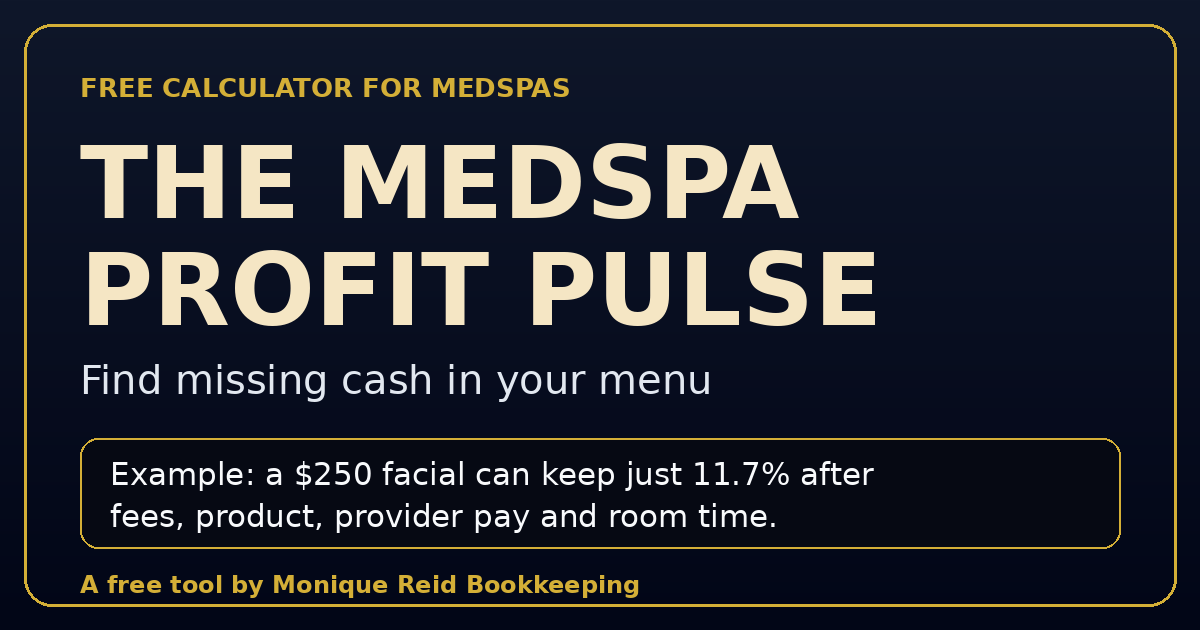
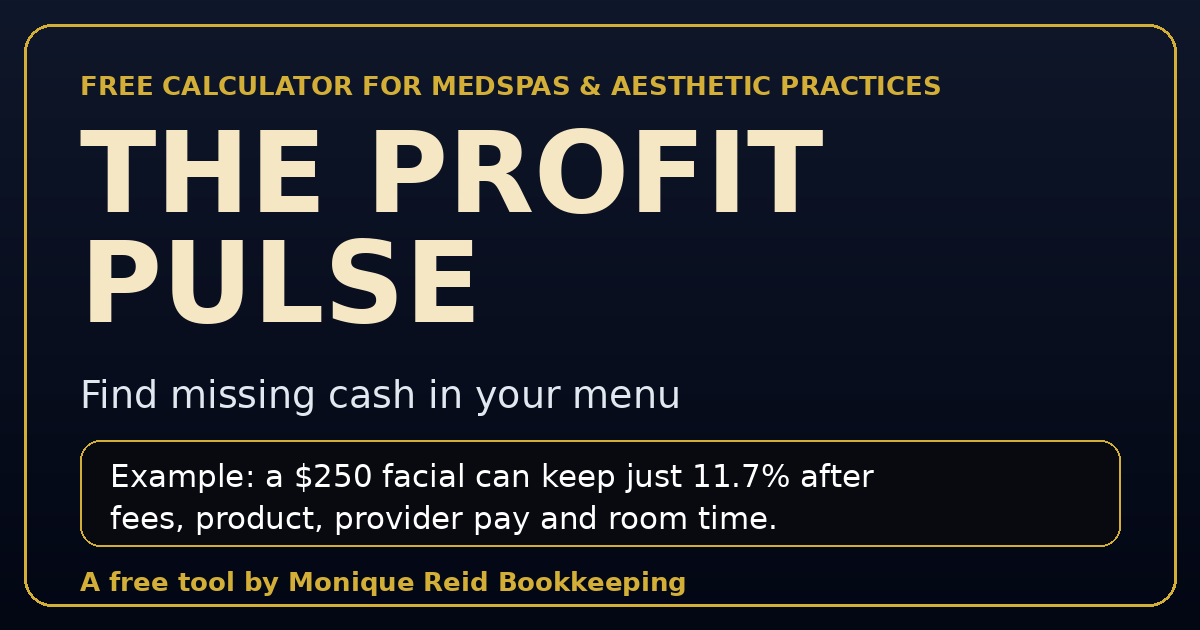
Crisper print, Unlock My Full Report wording, email typo help, clean main-site link, clearer feedback question, The Profit Pulse name, longer save timeout
Claude-Session: https://claude.ai/code/session_01DRTBERRYbtjQAsqXJZxU74

diff --git a/src/App.tsx b/src/App.tsx
@@ -9,12 +9,13 @@ import NumField from './NumField';
 import Turnstile from './Turnstile';
 import { track } from './analytics';
 import { buildReportPayload, newReportId } from './reportPayload';
+import { emailProblem, suggestEmail } from './emailCheck';
 
 const STORAGE_KEY = "medspa_profit_pulse_state";
 const LEAD_CAPTURED_KEY = "medspa_profit_pulse_lead_captured";
 
 // ---- Easy-to-edit business settings -------------------------------------------------------
-const SITE_URL = 'https://www.moniquereidbookkeeping.com/';
+const SITE_URL = 'https://moniquereidbookkeeping.com/';
 /** Swap this for a calendar booking link (Calendly, Google Calendar, etc.) when you have one. */
 const BOOKING_URL = SITE_URL;
 /** Optional: link to your privacy policy. Leave empty to hide the link. */
@@ -34,19 +35,6 @@ const CATEGORIES = ['injectables', 'lasers', 'facials'] as const;
 /** Keep a saved/stale value inside the range the calculator and server accept. */
 const clampNum = (v: unknown, min: number, max: number, fallback: number) =>
   typeof v === 'number' && Number.isFinite(v) ? Math.min(max, Math.max(min, v)) : fallback;
-
-const withUtm = (url: string, content: string) => {
-  try {
-    const u = new URL(url);
-    u.searchParams.set('utm_source', 'profit-pulse');
-    u.searchParams.set('utm_medium', 'calculator');
-    u.searchParams.set('utm_campaign', 'medspa-profit-pulse');
-    u.searchParams.set('utm_content', content);
-    return u.toString();
-  } catch {
-    return url;
-  }
-};
 
 type SaveStatus = 'idle' | 'saving' | 'ok' | 'error';
 
@@ -71,6 +59,10 @@ export default function App() {
   const [practiceName, setPracticeName] = useState("");
   const [email, setEmail] = useState("");
   const [phone, setPhone] = useState<string>("");
+  // Plain-language help under the email box: a problem to fix, or a "did you mean" suggestion.
+  const [emailNote, setEmailNote] = useState<{ kind: 'error' | 'suggest'; text: string; fix?: string } | null>(null);
+  const emailRef = useRef<HTMLInputElement>(null);
+  const keptEmail = useRef<string>(''); // an address the visitor confirmed is spelled as intended
   const [feedback, setFeedback] = useState("");
   const [contactConsent, setContactConsent] = useState(false);
   const [website, setWebsite] = useState(""); // hidden spam trap; real visitors never fill it in
@@ -243,8 +235,18 @@ export default function App() {
     if (!ownerName.trim() || !practiceName.trim()) {
       return fail('Please enter your name and practice name.');
     }
-    if (!EMAIL_RE.test(email.trim())) {
-      return fail('Please enter a valid email address so Monique can reach you.');
+    const problem = emailProblem(email) ?? (EMAIL_RE.test(email.trim()) ? null : 'This does not look like a full email address. Please check it.');
+    if (problem) {
+      setEmailNote({ kind: 'error', text: problem });
+      emailRef.current?.focus();
+      return fail('Please fix your email address, then press the button again.');
+    }
+    const maybe = suggestEmail(email);
+    if (maybe && keptEmail.current !== email.trim()) {
+      keptEmail.current = email.trim(); // a second press keeps the address as typed
+      setEmailNote({ kind: 'suggest', text: `Is this the right email? Did you mean ${maybe}?`, fix: maybe });
+      emailRef.current?.focus();
+      return fail('Please check your email address. If it is correct as typed, press the button again.');
     }
     if (phone.trim()) {
       const digits = phone.replace(/\D/g, '');
@@ -306,7 +308,7 @@ export default function App() {
       setIsLeadCaptured(true);
       setIsEditingContact(false);
       setSaveStatus('ok');
-      setSaveMessage('Thank you. Your report is opening now. If it does not, press the Save My Full Report button below. Monique will follow up at ' + email.trim() + '.');
+      setSaveMessage('Thank you. Your report is opening now. If it does not, press the Print / Save My Full Report button below. Monique will follow up at ' + email.trim() + '.');
       track('review_requested', { alert: metrics.alertLevel, category });
       // The full report opens right after the details are saved. The button below stays available if a browser blocks this.
       setTimeout(() => { track('report_printed'); window.print(); }, 400);
@@ -354,13 +356,13 @@ export default function App() {
       {/* Printed instead of the report when the visitor has not yet saved their details (for example Ctrl+P) */}
       <div className="print-lock-note">
         <h1>MONIQUE REID BOOKKEEPING</h1>
-        <p>Your full MedSpa Profit Pulse report is saved after you enter your name, practice and email on the calculator page.</p>
+        <p>Your full Profit Pulse report is saved after you enter your name, practice and email on the calculator page.</p>
         <p>medspa.moniquereidbookkeeping.com</p>
       </div>
       {/* Print-Only Professional CPA-Ready Diagnostic Header */}
       <div className="print-header-brand">
         <h1>MONIQUE REID BOOKKEEPING</h1>
-        <p>MedSpa Treatment Profitability Diagnostic</p>
+        <p>Treatment Profitability Diagnostic</p>
         <p className="print-report-date">Report date: {new Date().toLocaleDateString('en-US')}</p>
         <p className="print-contact-details">Practice: {practiceName || 'Not provided'} • Prepared for: {ownerName || 'Not provided'}</p>
         <p>Platform: {paymentPlatform} • Treatment: {category} • Structure: {treatmentType === 'single' ? 'Single visit' : `${sessions}-session package`}</p>
@@ -378,9 +380,9 @@ export default function App() {
             Reset Defaults
           </button>
         </div>
-        <h1>THE MEDSPA PROFIT PULSE</h1>
+        <h1>THE PROFIT PULSE</h1>
         <p>Find Missing Cash In Your Menu</p>
-        <p className="brand-line">A free tool by Monique Reid Bookkeeping</p>
+        <p className="brand-line">For MedSpas &amp; aesthetic practices. A free tool by Monique Reid Bookkeeping</p>
       </div>
 
       {/* Category Tabs */}
@@ -634,7 +636,7 @@ export default function App() {
 
       {/* Dynamic Accessible Contribution Alert Banner */}
       <div className={`alert-box alert-${metrics.alertLevel}`} role="status" style={{ display: 'block', marginTop: '16px' }}>
-        <strong>{metrics.alertLevel === 'red' ? '🚨 Profitability Concern: ' : metrics.alertLevel === 'amber' ? '🟡 Margin Squeeze: ' : '🟢 Strong Contribution: '}</strong>
+        <strong><span className="emoji-icon" aria-hidden="true">{metrics.alertLevel === 'red' ? '🚨 ' : metrics.alertLevel === 'amber' ? '🟡 ' : '🟢 '}</span>{metrics.alertLevel === 'red' ? 'Profitability Concern: ' : metrics.alertLevel === 'amber' ? 'Margin Squeeze: ' : 'Strong Contribution: '}</strong>
         {metrics.alertMessage}
       </div>
       <p className="threshold-note">{ALERT_THRESHOLD_NOTE}</p>
@@ -648,14 +650,22 @@ export default function App() {
       {/* Free-review offer (lead capture) & returning visitor state */}
       <div className="lead-box" ref={leadBoxRef} onFocus={() => setFormNear(true)}>
         {(!isLeadCaptured || isEditingContact) ? (
-          <form onSubmit={handleLeadSubmit}>
+          <form onSubmit={handleLeadSubmit} noValidate>
             <p className="lead-headline">{REVIEW_HEADLINES[metrics.alertLevel]}</p>
             <p style={{ fontSize: '12px', color: '#CBD5E1', marginBottom: '8px' }}>{REVIEW_TEXT}</p>
             <input className="manual-input" value={ownerName} onChange={e => setOwnerName(e.target.value)} placeholder="Your name (required)" aria-label="Your name" autoComplete="name" required maxLength={100} />
             <input className="manual-input" value={practiceName} onChange={e => setPracticeName(e.target.value)} placeholder="Practice name (required)" aria-label="Practice name" autoComplete="organization" required maxLength={120} />
-            <input type="email" className="manual-input" value={email} onChange={e => setEmail(e.target.value)} placeholder="Email (required)" aria-label="Email address" autoComplete="email" inputMode="email" required maxLength={254} />
+            <input ref={emailRef} type="email" className="manual-input" value={email} onChange={e => { setEmail(e.target.value); setEmailNote(null); }} placeholder="Email (required)" aria-label="Email address" aria-describedby={emailNote ? 'email-note' : undefined} autoComplete="email" inputMode="email" required maxLength={254} />
+            {emailNote && (
+              <p id="email-note" role="alert" className={`field-note field-note-${emailNote.kind}`}>
+                {emailNote.text}
+                {emailNote.fix && (
+                  <> <button type="button" className="link-btn" onClick={() => { setEmail(emailNote.fix!); setEmailNote(null); emailRef.current?.focus(); }}>Use {emailNote.fix}</button></>
+                )}
+              </p>
+            )}
             <input type="tel" className="manual-input" value={phone} onChange={e => setPhone(e.target.value)} placeholder="Phone (optional)" aria-label="Phone number, optional" autoComplete="tel" maxLength={25} />
-            <input className="manual-input" value={feedback} onChange={e => setFeedback(e.target.value)} placeholder="What would improve this? (optional)" aria-label="What would improve this calculator? Optional" maxLength={400} />
+            <input className="manual-input" value={feedback} onChange={e => setFeedback(e.target.value)} placeholder="Anything confusing or missing? Tell us how to make this better (optional)" aria-label="Optional: tell us anything that was confusing or missing, or what would make this calculator more useful" maxLength={400} />
             {/* Spam trap: hidden from people, visible to bots */}
             <input className="hp-field" type="text" name="hp_ref" tabIndex={-1} autoComplete="off" aria-hidden="true" data-lpignore="true" data-1p-ignore="true" value={website} onChange={e => setWebsite(e.target.value)} />
             <label style={{ display: 'flex', alignItems: 'flex-start', gap: '8px', fontSize: '12px', marginTop: '4px', color: '#E2E8F0', cursor: 'pointer' }}>
@@ -667,7 +677,7 @@ export default function App() {
               <p className="save-message save-error">The verification check did not load. Some in-app browsers (including social media apps) block it. Please open this page in Safari or Chrome to send your request. You can still use the calculator and print your report here.</p>
             )}
             <button type="submit" disabled={saveStatus === 'saving'} className="cta-btn" style={{ marginTop: '4px' }}>
-              {saveStatus === 'saving' ? 'Sending...' : 'Save My Full Report'}
+              {saveStatus === 'saving' ? 'Sending...' : 'Unlock My Full Report'}
             </button>
           </form>
         ) : (
@@ -685,10 +695,10 @@ export default function App() {
         {saveMessage && (
           <p role={saveStatus === 'error' ? 'alert' : 'status'} className={`save-message save-${saveStatus}`}>{saveMessage}</p>
         )}
-        <button type="button" className="secondary-cta-btn print-report-btn" onClick={handlePrint} style={{ marginTop: '12px' }}>{isLeadCaptured ? 'Print / Save My Full Report' : 'Save My Full Report (enter your details above)'}</button>
+        <button type="button" className="secondary-cta-btn print-report-btn" onClick={handlePrint} style={{ marginTop: '12px' }}>{isLeadCaptured ? 'Print / Save My Full Report' : 'Unlock My Full Report (enter your details above)'}</button>
       </div>
 
-      <a href={withUtm(BOOKING_URL, 'results_cta')} onClick={() => track('cta_clicked')} target="_blank" rel="noopener noreferrer" className="secondary-cta-btn">
+      <a href={BOOKING_URL} onClick={() => track('cta_clicked')} target="_blank" rel="noopener" className="secondary-cta-btn">
         See How Monique Helps MedSpas
       </a>
 

diff --git a/public/privacy.html b/public/privacy.html
@@ -4,8 +4,8 @@
     <meta charset="UTF-8" />
     <meta name="viewport" content="width=device-width, initial-scale=1.0" />
     <meta name="theme-color" content="#020617" />
-    <title>Privacy | The MedSpa Profit Pulse</title>
-    <meta name="description" content="What The MedSpa Profit Pulse saves, where it goes, and how to ask for your details to be removed." />
+    <title>Privacy | The Profit Pulse</title>
+    <meta name="description" content="What The Profit Pulse saves, where it goes, and how to ask for your details to be removed." />
     <link rel="icon" type="image/png" href="/favicon.png" />
     <style>
       :root { color-scheme: dark; }
@@ -23,14 +23,14 @@
   <body>
     <main>
       <h1>Privacy</h1>
-      <p class="meta">The MedSpa Profit Pulse, a free tool by Monique Reid Bookkeeping. Last updated October 26, 2026.</p>
+      <p class="meta">The Profit Pulse, a free tool by Monique Reid Bookkeeping. Last updated October 27, 2026.</p>
       <p>This page explains in plain language what the calculator saves and what happens if you ask for a free review.</p>
 
       <h2>If you only use the calculator</h2>
-      <p>The numbers you type stay in your own browser so they are still there next time you visit. They are not sent to us. The "Reset Defaults" button clears them. Printing a report is free and needs no sign-up.</p>
+      <p>The numbers you type stay in your own browser so they are still there next time you visit. They are not sent to us. The "Reset Defaults" button clears them. Results on the screen are free and need no sign-up. The full printable report is unlocked when you share your contact details (see below).</p>
 
       <h2>If you request a free review</h2>
-      <p>When you press "Request My Free Review", the following is sent to Monique Reid Bookkeeping:</p>
+      <p>When you press "Unlock My Full Report", the following is sent to Monique Reid Bookkeeping:</p>
       <ul>
         <li>Your name, practice name and email address, and your phone number if you chose to give it.</li>
         <li>Anything you typed in the optional feedback box.</li>
@@ -40,13 +40,13 @@
       <p>Please do not enter patient names or any health information. The calculator does not need them.</p>
 
       <h2>Why we use it</h2>
-      <p>To prepare and follow up on your review, and to tell you about our bookkeeping services, as you agreed when you ticked the box. You can say no and still use the calculator and print your report.</p>
+      <p>To give you your full report, to prepare and follow up on your free review, and to tell you about our bookkeeping services, as you agreed when you ticked the box. You can say no and still use the calculator and see your results on the screen.</p>
 
       <h2>Where it is kept</h2>
       <p>Your request is stored in a Google Sheet that Monique Reid Bookkeeping controls. This site is hosted on Cloudflare. When it is switched on, a Cloudflare security check confirms that you are a person and not an automated program. We may also count visits to this page without recording who you are, using Cloudflare Web Analytics or Plausible.</p>
 
       <h2>Your choices</h2>
-      <p>You can ask us to stop contacting you, to show you what we hold about you, or to delete it. Contact us through <a href="https://www.moniquereidbookkeeping.com/" rel="noopener noreferrer">moniquereidbookkeeping.com</a> and we will act on your request.</p>
+      <p>You can ask us to stop contacting you, to show you what we hold about you, or to delete it. Contact us through <a href="https://moniquereidbookkeeping.com/" rel="noopener noreferrer">moniquereidbookkeeping.com</a> and we will act on your request.</p>
 
       <h2>A note on the numbers</h2>
       <p>All results are estimates based on what you enter, for planning and discussion with your accountant. They are not tax, legal or accounting advice.</p>

diff --git a/index.html b/index.html
@@ -4,7 +4,7 @@
     <meta charset="UTF-8" />
     <meta name="viewport" content="width=device-width, initial-scale=1.0" />
     <meta name="theme-color" content="#020617" />
-    <title>The MedSpa Profit Pulse Calculator | Monique Reid Bookkeeping</title>
+    <title>The Profit Pulse: Free MedSpa Profit Calculator | Monique Reid Bookkeeping</title>
     <meta name="description" content="Free MedSpa profit calculator: see what a treatment really keeps after payment and financing fees, product, provider pay, and room costs. By Monique Reid Bookkeeping." />
 
     <link rel="icon" type="image/png" href="/favicon.png" />
@@ -14,15 +14,15 @@
     <meta property="og:site_name" content="Monique Reid Bookkeeping" />
     <link rel="canonical" href="https://medspa.moniquereidbookkeeping.com/" />
     <meta property="og:url" content="https://medspa.moniquereidbookkeeping.com/" />
-    <meta property="og:title" content="The MedSpa Profit Pulse: Find Missing Cash in Your Menu" />
+    <meta property="og:title" content="The Profit Pulse: Free MedSpa Profit Calculator" />
     <meta property="og:description" content="Free calculator for MedSpa owners. See what each treatment really keeps after fees, product, provider pay, and room time." />
     <meta property="og:type" content="website" />
     <meta property="og:image" content="https://medspa.moniquereidbookkeeping.com/og-image.png" />
     <meta property="og:image:width" content="1200" />
     <meta property="og:image:height" content="630" />
-    <meta property="og:image:alt" content="The MedSpa Profit Pulse: a free profit calculator for MedSpas" />
+    <meta property="og:image:alt" content="The Profit Pulse: a free profit calculator for MedSpas and aesthetic practices" />
     <meta name="twitter:card" content="summary_large_image" />
-    <meta name="twitter:title" content="The MedSpa Profit Pulse: Find Missing Cash in Your Menu" />
+    <meta name="twitter:title" content="The Profit Pulse: Free MedSpa Profit Calculator" />
     <meta name="twitter:description" content="Free calculator for MedSpa owners. See what each treatment really keeps." />
     <meta name="twitter:image" content="https://medspa.moniquereidbookkeeping.com/og-image.png" />
   </head>
@@ -31,7 +31,7 @@
       <!-- Painted immediately so visitors see the page while the calculator loads; React replaces it. -->
       <div class="app-card" aria-busy="true">
         <div class="header">
-          <h1>THE MEDSPA PROFIT PULSE</h1>
+          <h1>THE PROFIT PULSE</h1>
           <p>Find Missing Cash In Your Menu</p>
           <p class="brand-line">A free tool by Monique Reid Bookkeeping</p>
         </div>
@@ -40,7 +40,7 @@
     </div>
     <noscript>
       <p style="color:#F5E6C4;font-family:sans-serif;text-align:center;padding:24px">
-        The MedSpa Profit Pulse needs JavaScript to run. Please enable it in your browser.
+        The Profit Pulse needs JavaScript to run. Please enable it in your browser.
       </p>
     </noscript>
     <script type="module" src="/src/main.tsx"></script>

diff --git a/src/emailCheck.ts b/src/emailCheck.ts
@@ -1,0 +1,44 @@
+/** Friendly email checks for the lead form. The server still makes the final decision. */
+
+const DOMAIN_FIXES: Record<string, string> = {
+  'gmial.com': 'gmail.com', 'gmai.com': 'gmail.com', 'gmail.co': 'gmail.com', 'gmail.cm': 'gmail.com', 'gmail.con': 'gmail.com',
+  'gamil.com': 'gmail.com', 'gmal.com': 'gmail.com', 'gnail.com': 'gmail.com', 'gmaill.com': 'gmail.com', 'gmail.comm': 'gmail.com',
+  'yaho.com': 'yahoo.com', 'yahooo.com': 'yahoo.com', 'yahoo.con': 'yahoo.com', 'yhoo.com': 'yahoo.com', 'yahoo.co': 'yahoo.com',
+  'hotmial.com': 'hotmail.com', 'hotmal.com': 'hotmail.com', 'hotmail.con': 'hotmail.com', 'hotmai.com': 'hotmail.com',
+  'outlok.com': 'outlook.com', 'outlook.con': 'outlook.com', 'outloook.com': 'outlook.com',
+  'iclould.com': 'icloud.com', 'icloud.con': 'icloud.com', 'icoud.com': 'icloud.com', 'iclod.com': 'icloud.com',
+  'aol.con': 'aol.com'
+};
+const TLD_FIXES: Record<string, string> = { con: 'com', cmo: 'com', ocm: 'com', coom: 'com', vom: 'com', xom: 'com', comm: 'com', 'c0m': 'com' };
+
+/** Returns a plain-language problem with the address, or null when it looks usable. */
+export function emailProblem(raw: string): string | null {
+  const email = raw.trim();
+  if (!email) return 'Please enter your email address.';
+  if (/\s/.test(email)) return 'An email address cannot contain spaces.';
+  const at = email.indexOf('@');
+  if (at === -1) return 'An email address needs an @ sign, like name@example.com.';
+  if (email.indexOf('@', at + 1) !== -1) return 'An email address can only have one @ sign.';
+  const local = email.slice(0, at);
+  const domain = email.slice(at + 1);
+  if (!local) return 'Please type the part before the @ sign, like name@example.com.';
+  if (!domain) return 'Please type the part after the @ sign, like gmail.com.';
+  if (!domain.includes('.')) return 'After the @ there should be a website name that ends like .com, for example name@gmail.com.';
+  if (/\.\./.test(email) || domain.startsWith('.') || domain.endsWith('.') || local.startsWith('.') || local.endsWith('.')) return 'This email address has a misplaced dot. Please check it.';
+  if (!/^[^\s@]+@[^\s@]+\.[^\s@]{2,}$/.test(email)) return 'This does not look like a full email address. Please check it.';
+  return null;
+}
+
+/** For a valid-looking address with a likely typo in the domain, returns the corrected address; otherwise null. */
+export function suggestEmail(raw: string): string | null {
+  const email = raw.trim();
+  if (emailProblem(email)) return null;
+  const at = email.lastIndexOf('@');
+  const local = email.slice(0, at);
+  const domain = email.slice(at + 1).toLowerCase();
+  if (DOMAIN_FIXES[domain]) return `${local}@${DOMAIN_FIXES[domain]}`;
+  const dot = domain.lastIndexOf('.');
+  const tld = domain.slice(dot + 1);
+  if (TLD_FIXES[tld]) return `${local}@${domain.slice(0, dot)}.${TLD_FIXES[tld]}`;
+  return null;
+}

diff --git a/src/emailCheck.test.ts b/src/emailCheck.test.ts
@@ -1,0 +1,26 @@
+import test from 'node:test';
+import assert from 'node:assert/strict';
+import { emailProblem, suggestEmail } from './emailCheck.ts';
+
+test('plain-language problems for common mistakes', () => {
+  assert.match(emailProblem('')!, /enter your email/);
+  assert.match(emailProblem('jane.gmail.com')!, /@ sign/);
+  assert.match(emailProblem('jane@')!, /after the @/);
+  assert.match(emailProblem('@gmail.com')!, /before the @/);
+  assert.match(emailProblem('jane@gmail')!, /\.com/);
+  assert.match(emailProblem('jane @gmail.com')!, /spaces/);
+  assert.match(emailProblem('jane@@gmail.com')!, /one @/);
+  assert.match(emailProblem('jane@gmail..com')!, /dot/);
+  assert.equal(emailProblem('jane@glowspa.com'), null);
+  assert.equal(emailProblem('  jane+x@glow-spa.co.uk '), null);
+});
+
+test('suggests a fix for common domain and ending typos, and stays quiet otherwise', () => {
+  assert.equal(suggestEmail('jane@gmial.com'), 'jane@gmail.com');
+  assert.equal(suggestEmail('jane@gmail.con'), 'jane@gmail.com');
+  assert.equal(suggestEmail('Jane@Hotmial.com'), 'Jane@hotmail.com');
+  assert.equal(suggestEmail('jane@glowspa.con'), 'jane@glowspa.com');
+  assert.equal(suggestEmail('jane@glowspa.com'), null);
+  assert.equal(suggestEmail('jane@gmail.com'), null);
+  assert.equal(suggestEmail('not an email'), null);
+});

diff --git a/src/index.css b/src/index.css
@@ -594,3 +594,15 @@ button:focus-visible, a:focus-visible, select:focus-visible, input:focus-visible
   .report-locked .print-lock-note h1 { font-size: 20pt !important; color: #000 !important; margin: 0 0 16px !important; }
   .report-locked .print-lock-note p { font-size: 12pt !important; color: #000 !important; margin: 0 0 10px !important; }
 }
+
+@media print {
+  /* Crisp print: system fonts embed as real (hinted) fonts in PDFs, while the web font becomes a soft-looking Type 3 font.
+     Shadows and blurs are dropped because browsers turn them into low-resolution pictures. */
+  html, body, .app-card, .app-card * { font-family: Arial, "Helvetica Neue", Helvetica, sans-serif !important; text-shadow: none !important; box-shadow: none !important; filter: none !important; -webkit-font-smoothing: auto !important; }
+}
+
+.field-note { margin: -4px 2px 0; font-size: 12.5px; line-height: 1.5; }
+.field-note-error { color: #FCA5A5; }
+.field-note-suggest { color: #FDE68A; }
+.link-btn { background: none; border: 0; padding: 0; margin: 0 0 0 4px; font: inherit; font-weight: 700; color: #F5E6C4; text-decoration: underline; cursor: pointer; }
+@media print { .emoji-icon { display: none !important; } }

diff --git a/functions/api/report.ts b/functions/api/report.ts
@@ -197,7 +197,7 @@ export const onRequestPost = async ({ request, env }: { request: Request; env: E
     };
 
     const controller = new AbortController();
-    const abort = setTimeout(() => controller.abort(), 10000);
+    const abort = setTimeout(() => controller.abort(), 20000); // Google Apps Script can be slow on its first call
     let res: Response;
     try { res = await fetch(env.APPS_SCRIPT_URL, { method: 'POST', headers: { 'Content-Type': 'text/plain;charset=utf-8' }, body: JSON.stringify(safe), signal: controller.signal, redirect: 'follow' }); }
     finally { clearTimeout(abort); }

diff --git a/README.md b/README.md
@@ -1,4 +1,4 @@
-# The MedSpa Profit Pulse
+# The Profit Pulse (MedSpa Profit Calculator)
 
 Free treatment-profit calculator for MedSpas, built by Monique Reid Bookkeeping as a lead magnet.
 Visitors see what a treatment really keeps after payment/financing fees, product, provider pay and room cost,
